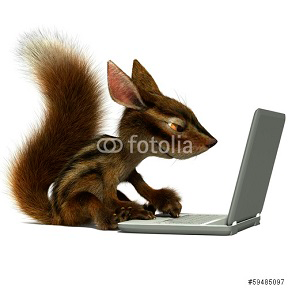
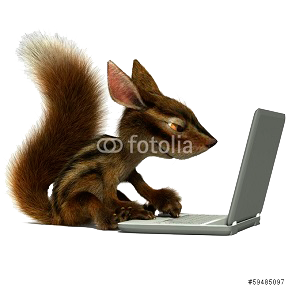
transparence photo

diff --git a/wordpress/wp-content/themes/theme projet perso/template-parts/featured-area.php b/wordpress/wp-content/themes/theme projet perso/template-parts/featured-area.php
@@ -52,7 +52,7 @@ $emtpy_cta = ( empty( $responsive_options['cta_text'] ) ) ? false : true;
 		</div>
 		<div id="contenu">
 		<div id="boutique">
-			<img src="http://localhost/GitHub/projet_perso/wordpress/wp-content/images/fotolia_62015372.jpg">
+			<img src="http://localhost/GitHub/projet_perso/wordpress/wp-content/images/fotolia_62015372.png">
 		</div>
 			<div id="souhait_site">
 				<ul>
